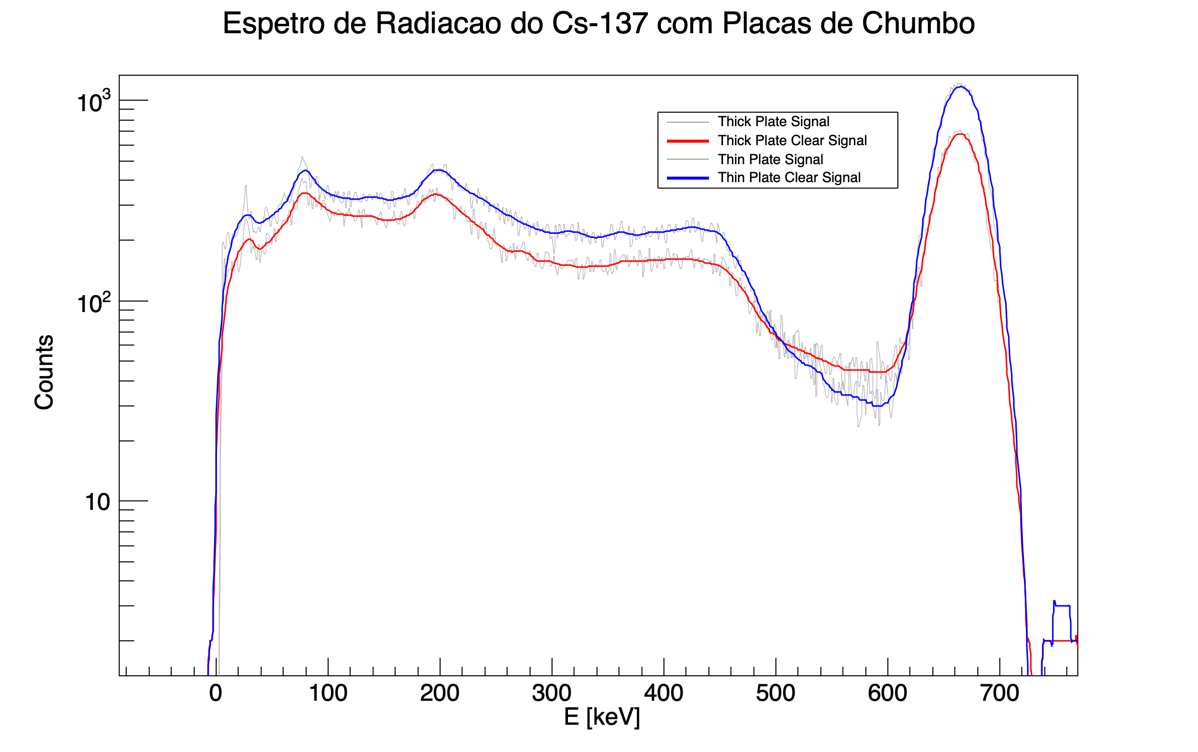
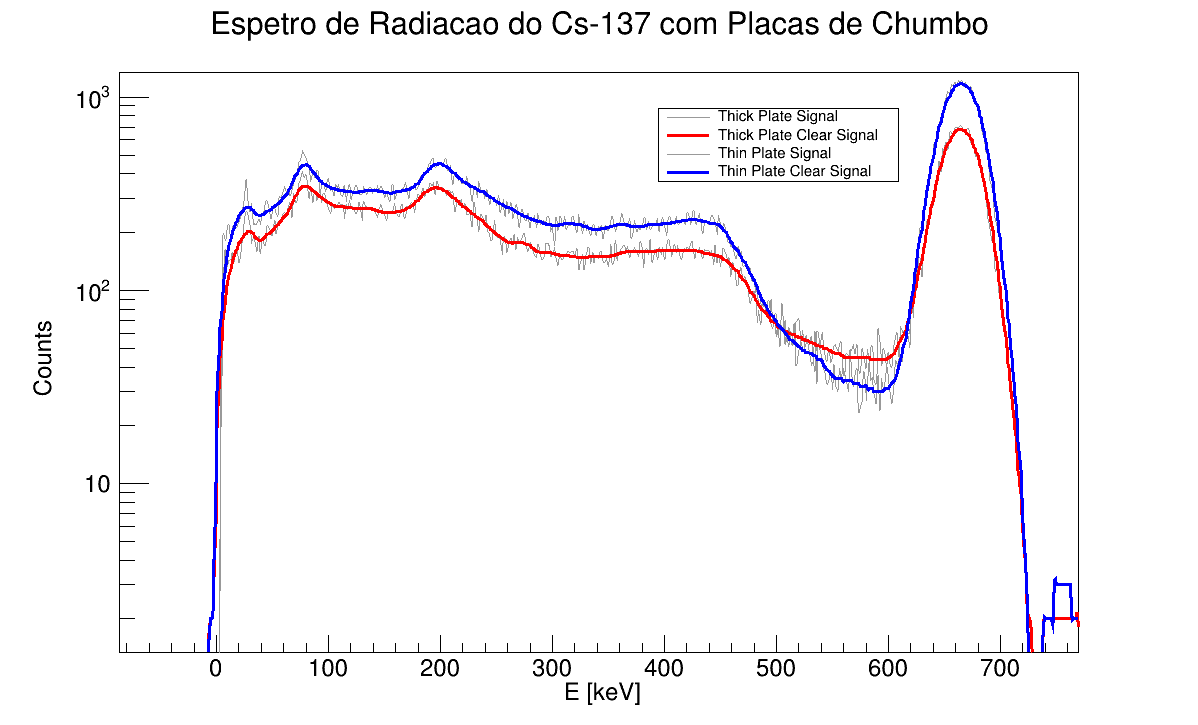
des td fdd

diff --git a/Gama/main/Analise.cpp b/Gama/main/Analise.cpp
@@ -116,6 +116,7 @@ int main(){
         
 //////////////////////////////////// Cs-137  ////////////////////////////////////
     // Espetro de Radiação do Cs-137 
+    //gStyle->SetOptFit(kTRUE);
     TGraphErrors G_Cs;
     n=0;
     vector<pair<double, double>> rad_cs;
@@ -151,24 +152,22 @@ int main(){
     G_Cs_Smoothed.GetXaxis()->CenterTitle();
     G_Cs_Smoothed.GetYaxis()->CenterTitle();
 
-    TF1 *F_Cs1 = new TF1("F_Cs1", "[0]*exp(-0.5*((x-[1])/[2])**2)", 21, 37);
+    TF1 *F_Cs1 = new TF1("F_Cs1", "[0]*exp(-0.5*((x-[1])/[2])**2)", 23, 36.5);
     F_Cs1->SetParameters(2000, 27, 2);
-    F_Cs1->SetLineColor(kGreen);
-    G_Cs_Smoothed.Fit("F_Cs1","","",21,37);
-    
+    F_Cs1->SetLineColor(kBlue);
+    G_Cs.Fit("F_Cs1","","",23,36.5);
     
     TF1 *F_Cs2 = new TF1("F_Cs2", "[0]*exp(-0.5*((x-[1])/[2])**2)", 175, 220);
     F_Cs2->SetParNames("C","#mu", "#sigma");
     F_Cs2->SetParameters(200, 184, 20);
     F_Cs2->SetLineColor(kGreen);
-    G_Cs_Smoothed.Fit("F_Cs2","","",175,220);
+    G_Cs.Fit("F_Cs2","","",175,220);
     
-    
-    TF1 *F_Cs3 = new TF1("F_Cs3", "[0]*exp(-0.5*((x-[1])/[2])**2)", 620, 725);
+    TF1 *F_Cs3 = new TF1("F_Cs3", "[0]*exp(-0.5*((x-[1])/[2])**2)", 620, 720);
     F_Cs3->SetParameters(1000, 650, 50);
-    F_Cs3->SetLineColor(kGreen);
-    G_Cs_Smoothed.Fit("F_Cs3","","",610,725);
-
+    F_Cs3->SetLineColor(kBlue);
+    G_Cs.Fit("F_Cs3","","",610,720);
+    
     // Backscatter Peak
     TGraph Cs_Backscatter;
     double x_p1 = 130, x_p2 = 255;
@@ -185,7 +184,7 @@ int main(){
     Cs_Backscatter.AddPoint(184, 0);
     Cs_Backscatter.SetMarkerSize(1.5);
     Cs_Backscatter.SetMarkerStyle(22);
-    Cs_Backscatter.SetMarkerColor(kBlue);
+    Cs_Backscatter.SetMarkerColor(kGreen+2);
 
     // Compton Edge
     // Find the Compton Edge for Cs-137
@@ -207,10 +206,11 @@ int main(){
 
 
     // Create a legend
-    TLegend* cesio = new TLegend(0.65, 0.79, 0.85, 0.89); // Specify the position of the legend
+    TLegend* cesio = new TLegend(0.65, 0.79, 0.90, 0.94); // Specify the position of the legend
     cesio->AddEntry(&G_Cs, "Signal", "l"); 
     cesio->AddEntry(&G_Cs_Smoothed, "Clear Signal", "l"); // "l" for a solid line
     cesio->AddEntry(F_Cs3, "Calibration Peaks Fit", "l"); // "l" for a solid line
+    cesio->AddEntry(F_Cs2, "Back Scattering", "l"); // "l" for a solid line
     cesio->AddEntry(&Cs_Backscatter, "Backscatter Peak", "p"); // "p" for a point
     cesio->AddEntry(&Cs_Compton, "Compton Edge", "p"); // "p" for a point
 
@@ -227,11 +227,13 @@ int main(){
     c1.Update();
     c1.SaveAs("Graphs/Espetro_Cs_Smoothed.png");
     c1.WaitPrimitive();
+    //A.Run("TRUE");
     gSystem->ProcessEvents();
-
+    //gStyle->SetOptFit(kFALSE);
         
 //////////////////////////////////// Co-60  ////////////////////////////////////
     // Espetro de Radiação do Co-60
+    //gStyle->SetOptFit(kTRUE);
     TGraphErrors G_Co;
     vector<pair<double, double>> rad_co;
     n=0;
@@ -277,19 +279,17 @@ int main(){
     G_Co_Smoothed.SetMarkerStyle(20);
     G_Co_Smoothed.SetMarkerSize(0.5);
     G_Co_Smoothed.SetLineWidth(3);
-
+    
     TF1 *F_Co1 = new TF1("F_Co1", "[0]*exp(-0.5*((x-[1])/[2])**2)", 1110, 1230);
     F_Co1->SetParameters(100, 1160, 50);
     F_Co1->SetLineColor(kBlue);
-    G_Co_Smoothed.Fit("F_Co1","","",1110,1230);
+    G_Co.Fit("F_Co1","","",1110,1230);
 
     TF1 *F_Co2 = new TF1("F_Co2", "[0]*exp(-0.5*((x-[1])/[2])**2)", 1270, 1390);
     F_Co2->SetParameters(100, 1320, 50);
     F_Co2->SetLineColor(kBlue);
-    G_Co_Smoothed.Fit("F_Co2","","",1270, 1390);
+    G_Co.Fit("F_Co2","","",1270, 1390);
     
-
-
 
     // Find the Compton Edge for Co-60
     TGraph Point;
@@ -321,6 +321,7 @@ int main(){
     TLegend* legend = new TLegend(0.65, 0.79, 0.85, 0.89); // Specify the position of the legend
     
     // Add an entry to the legend
+    legend->AddEntry(&G_Co, "Signal", "l"); 
     legend->AddEntry(&G_Co_Smoothed, "Clear Signal", "l"); // "l" for a solid line
     legend->AddEntry(F_Co3, "Back Scattering", "l"); // "l" for a solid line
     legend->AddEntry(&Point, "Compton Edge", "p"); // "p" for a point
@@ -337,6 +338,7 @@ int main(){
     c1.Update();
     c1.SaveAs("Graphs/Espetro_Co.png");
     c1.WaitPrimitive();
+    //A.Run("TRUE");
     gSystem->ProcessEvents();
     
 //////////////////////////////////// Fonte-Desconhecida  ////////////////////////////////////
@@ -379,7 +381,7 @@ int main(){
     F_Des1->SetParNames("C","#mu", "#sigma");
     F_Des1->SetLineColor(kBlue);
     F_Des1->SetLineWidth(3);
-    G_Am_Smoothed.Fit("F_Des1","","",3.4,9.2);
+    G_Am.Fit("F_Des1","","",3.4,9.2);
     F_Des1->Draw("same C");
     
     TF1 *F_Des4 = new TF1("F_Des4", "[0]*exp(-0.5*((x-[1])/[2])**2)", 27, 50);
@@ -387,7 +389,7 @@ int main(){
     F_Des4->SetParNames("C","#mu", "#sigma");
     F_Des4->SetLineColor(kBlue);
     F_Des4->SetLineWidth(3);
-    G_Am_Smoothed.Fit("F_Des4","","",27, 50);
+    G_Am.Fit("F_Des4","","",27, 50);
     F_Des4->Draw("same C");
     
     
@@ -396,7 +398,7 @@ int main(){
     F_Des6->SetParNames("C","#mu", "#sigma");
     F_Des6->SetLineColor(kBlue);
     F_Des6->SetLineWidth(3);
-    G_Am_Smoothed.Fit("F_Des6","","",114, 136);
+    G_Am.Fit("F_Des6","","",114, 136);
     F_Des6->Draw("same C");
     
     TF1 *F_Des2 = new TF1("F_Des2", "[0]*exp(-0.5*((x-[1])/[2])**2)", 230, 258);
@@ -404,7 +406,7 @@ int main(){
     F_Des2->SetParNames("C","#mu", "#sigma");
     F_Des2->SetLineColor(kBlue);
     F_Des2->SetLineWidth(3);
-    G_Am_Smoothed.Fit("F_Des2","","",228,268);
+    G_Am.Fit("F_Des2","","",228,268);
     F_Des2->Draw("same C");
     
     TF1 *F_Des3 = new TF1("F_Des3", "[0]*exp(-0.5*((x-[1])/[2])**2)", 320, 375);
@@ -412,7 +414,7 @@ int main(){
     F_Des3->SetParNames("C","#mu", "#sigma");
     F_Des3->SetLineColor(kBlue);
     F_Des3->SetLineWidth(3);
-    G_Am_Smoothed.Fit("F_Des3","","",320,375);
+    G_Am.Fit("F_Des3","","",320,375);
     F_Des3->Draw("same C");
     
     TF1 *F_Des7 = new TF1("F_Des7", "[0]*exp(-0.5*((x-[1])/[2])**2)", 922, 1014);
@@ -420,7 +422,7 @@ int main(){
     F_Des7->SetParNames("C","#mu", "#sigma");
     F_Des7->SetLineColor(kBlue);
     F_Des7->SetLineWidth(3);
-    G_Am_Smoothed.Fit("F_Des7","","",922, 1014);
+    G_Am.Fit("F_Des7","","",922, 1014);
     F_Des7->Draw("same C");
     
     TF1 *F_Des8 = new TF1("F_Des8", "[0]*exp(-0.5*((x-[1])/[2])**2)", 1035, 1145);
@@ -428,15 +430,15 @@ int main(){
     F_Des8->SetParNames("C","#mu", "#sigma");
     F_Des8->SetLineColor(kBlue);
     F_Des8->SetLineWidth(3);
-    G_Am_Smoothed.Fit("F_Des8","","",1035, 1145);
+    G_Am.Fit("F_Des8","","",1035, 1145);
     F_Des8->Draw("same C");
     
-    TF1 *F_Des9 = new TF1("F_Des9", "[0]*exp(-0.5*((x-[1])/[2])**2)", 745, 826);
+    TF1 *F_Des9 = new TF1("F_Des9", "[0]*exp(-0.5*((x-[1])/[2])**2)", 745, 820);
     F_Des9->SetParameters(10, 800, 10);
     F_Des9->SetParNames("C","#mu", "#sigma");
     F_Des9->SetLineColor(kBlue);
     F_Des9->SetLineWidth(3);
-    G_Am_Smoothed.Fit("F_Des9","","",745, 826);
+    G_Am.Fit("F_Des9","","",745, 820);
     F_Des9->Draw("same C");
     
     TF1 *F_Des10 = new TF1("F_Des10", "[0]*exp(-0.5*((x-[1])/[2])**2)", 1370, 1440);
@@ -444,7 +446,7 @@ int main(){
     F_Des10->SetParNames("C","#mu", "#sigma");
     F_Des10->SetLineColor(kBlue);
     F_Des10->SetLineWidth(3);
-    G_Am_Smoothed.Fit("F_Des10","","",1370, 1440);
+    G_Am.Fit("F_Des10","","",1370, 1440);
     F_Des10->Draw("same C");
 
     // Create Legend
@@ -555,12 +557,13 @@ int main(){
     G_Coeficiente_Atenuacao.SetLineColor(kRed);
     G_Coeficiente_Atenuacao.SetMarkerStyle(20);
     G_Coeficiente_Atenuacao.SetMarkerSize(0.5);
-    G_Coeficiente_Atenuacao.SetTitle("Coeficiente de Atenuacao do Chumbo; Espessura [mg/cm^2]; Ln(Counts)");
+    G_Coeficiente_Atenuacao.SetTitle("Coeficiente de Atenuacao do Chumbo; Espessura [mg/cm^2]; Counts");
     G_Coeficiente_Atenuacao.GetXaxis()->CenterTitle();
     G_Coeficiente_Atenuacao.GetYaxis()->CenterTitle();
     G_Coeficiente_Atenuacao.Fit("co", "");
 
     c1.Clear();
+    c1.SetLogy(0);
     gStyle->SetOptFit(1111);
     G_Coeficiente_Atenuacao.Draw("AP");
     c1.Update();
